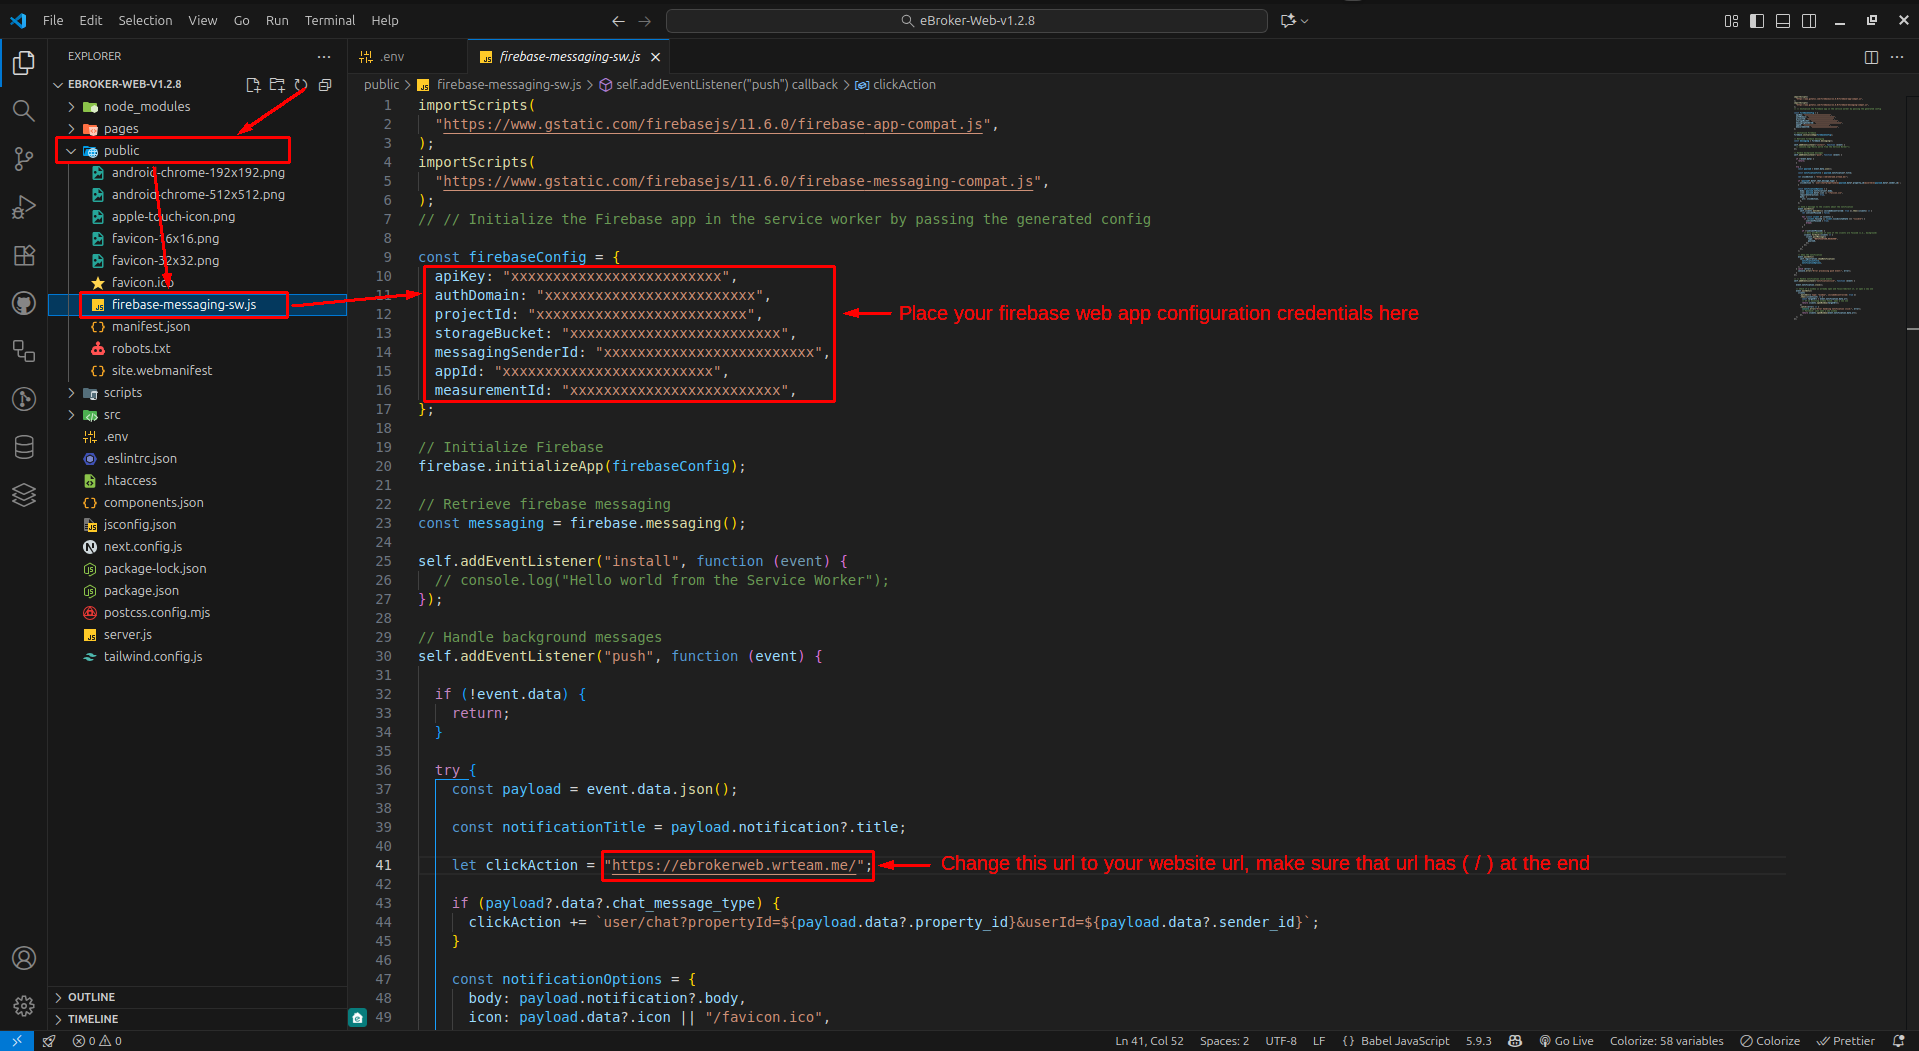
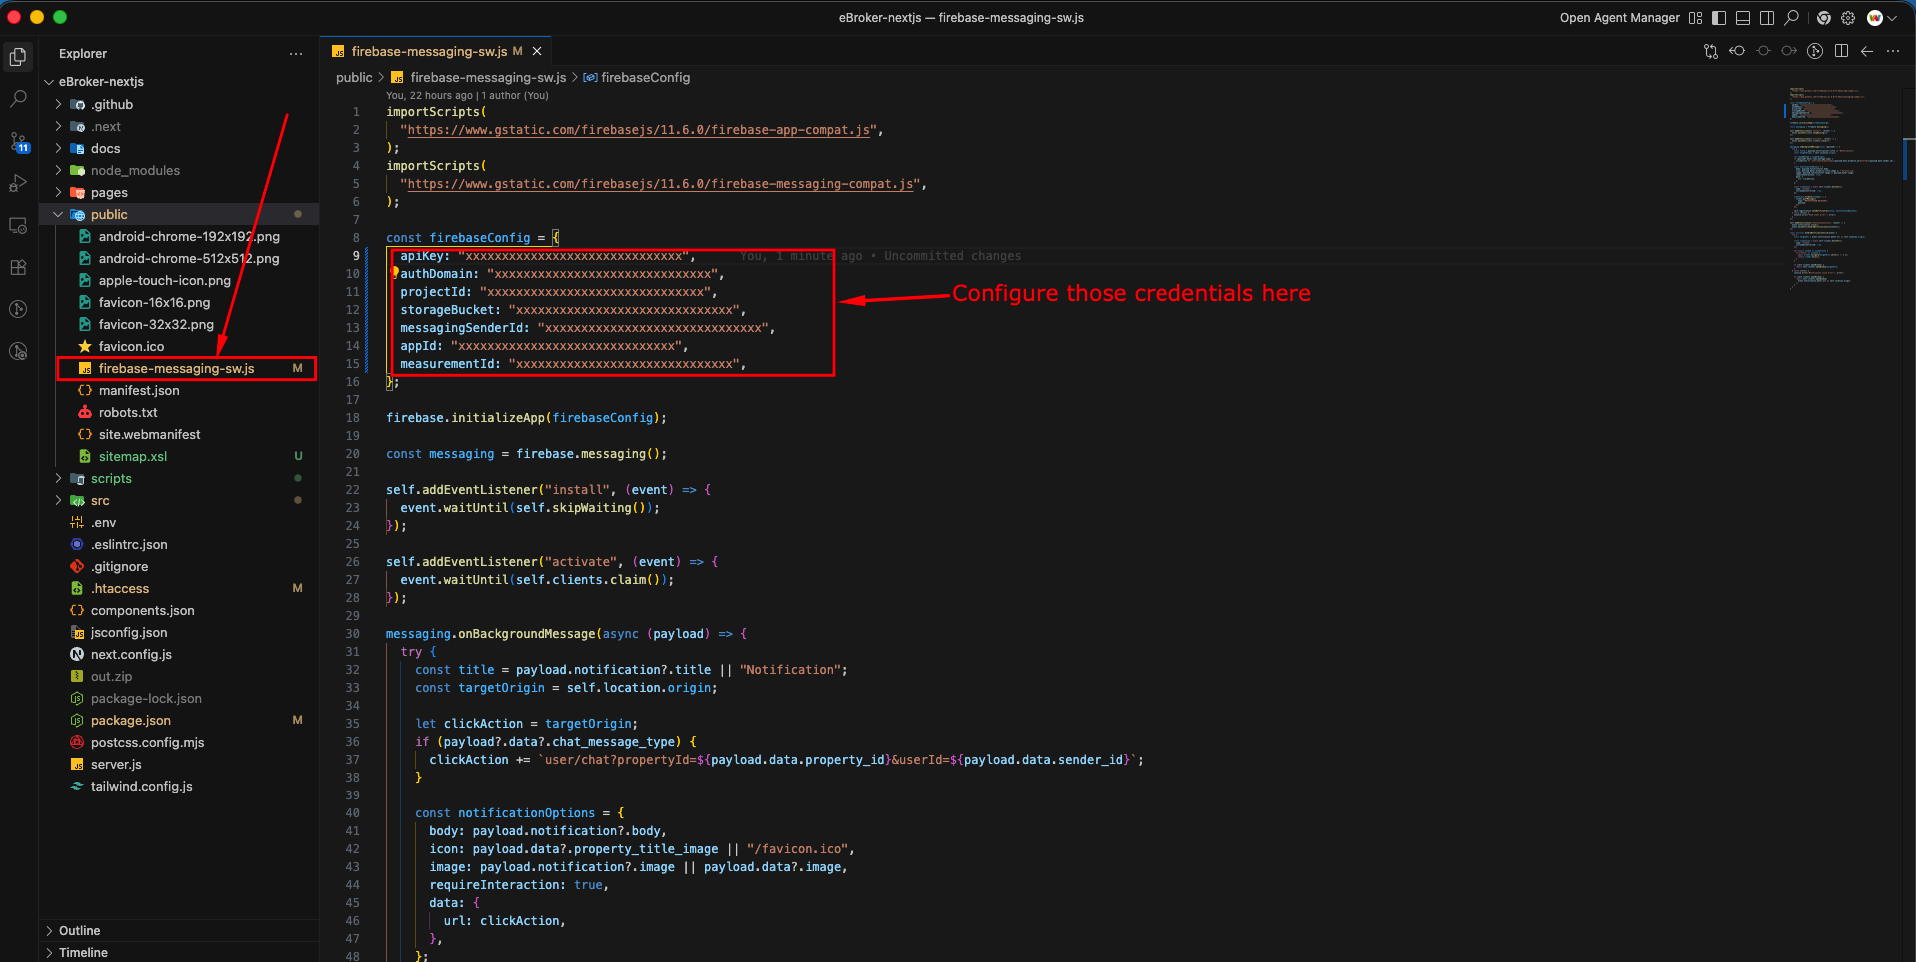
Done with v1.4.0 web docs changes

diff --git a/docs/web/set-favicon.md b/docs/web/set-favicon.md
@@ -15,23 +15,61 @@ The favicon is the small icon that appears in browser tabs, bookmarks, and other
 
 ![Change Favicon](/images/web/set-favicon.png)
 
-## Creating a Favicon
+## Generating Favicon Files
 
-If you need to create a favicon:
+Use **[favicon.io — Favicon Converter](https://favicon.io/favicon-converter/)** to generate all the necessary favicon files from a single image.
 
-1. Prepare a square image that represents your brand (ideally 16x16, 32x32, or 64x64 pixels)
-2. Convert it to `.ico` format using an online converter or image editing software
-3. Place the favicon file in your project's `public` folder
-4. Update the reference in `_document.js` as shown above
+### Steps to Generate
+
+1. Visit [https://favicon.io/favicon-converter/](https://favicon.io/favicon-converter/)
+2. Click **"Upload Image"** and select your logo or brand image (PNG recommended, ideally 512×512 px or larger)
+3. Click **"Download"** — a `.zip` file will be downloaded containing all favicon assets
+
+### Files Included in the Download
+
+The downloaded `.zip` will contain the following files:
+
+| File | Purpose |
+|------|---------|
+| `favicon.ico` | Classic ICO file for browser tabs |
+| `favicon-16x16.png` | 16×16 PNG favicon |
+| `favicon-32x32.png` | 32×32 PNG favicon |
+| `apple-touch-icon.png` | 180×180 icon for iOS home screen |
+| `android-chrome-192x192.png` | 192×192 icon for Android |
+| `android-chrome-512x512.png` | 512×512 icon for Android |
+| `site.webmanifest` | Web app manifest referencing the icons |
+
+### Placing Files in `public/`
+
+1. Extract the downloaded `.zip` file
+2. Copy **all** extracted files into your project's **`public/`** folder:
+
+```
+eBroker-Web-v1.4.0/
+└── public/
+    ├── favicon.ico
+    ├── favicon-16x16.png
+    ├── favicon-32x32.png
+    ├── apple-touch-icon.png
+    ├── android-chrome-192x192.png
+    ├── android-chrome-512x512.png
+    └── site.webmanifest
+```
+
+:::tip
+Files placed in the `public/` folder are served at the root path (`/`). So `public/favicon.ico` is accessible at `/favicon.ico`.
+:::
 
 ## Multiple Favicon Sizes
 
-For better compatibility across devices, you may want to include multiple favicon sizes:
+After placing the files, ensure the following tags are present in your `_document.js` to reference all the generated sizes:
 
 ```jsx
+<link rel="icon" type="image/x-icon" href="/favicon.ico" />
 <link rel="icon" type="image/png" sizes="16x16" href="/favicon-16x16.png" />
 <link rel="icon" type="image/png" sizes="32x32" href="/favicon-32x32.png" />
 <link rel="apple-touch-icon" sizes="180x180" href="/apple-touch-icon.png" />
+<link rel="manifest" href="/site.webmanifest" />
 ```
 
 ## Testing Your Favicon

diff --git a/docs/web/color-customization.md b/docs/web/color-customization.md
@@ -6,7 +6,9 @@ sidebar_position: 12
 
 Customizing the color scheme of your eBroker web application helps align it with your brand identity and creates a consistent user experience.
 
-## Setting System Colors
+## Setting System Colors via Admin Panel
+
+The quickest way to change colors is through the admin panel — no code changes required.
 
 1. Log in to your admin panel
 2. Navigate to **Settings → System Settings → More Settings → System Color**
@@ -14,6 +16,30 @@ Customizing the color scheme of your eBroker web application helps align it with
 4. Save your changes
 
 ![Change Color Code](/images/web/change-color-code.png)
+
+## Best Practice: Hardcoding Colors in Source Code
+
+For a more reliable and permanent color setup — especially in production deployments — it is recommended to **set your brand colors directly in the source code** inside `src/styles/globals.css`. This ensures that your colors are always applied consistently, regardless of admin panel settings or caching issues.
+
+### Where to Edit
+
+Open the file `src/styles/globals.css` in your project. Locate the `:root` block at the top of the file. This is where all global CSS color variables are defined.
+
+![Hex Color Code in globals.css](/images/web/hex-color-code-web.png)
+
+As shown in the screenshot above, update `--primary-color` (and any other relevant variables) with your desired hex color code.
+
+### Step-by-Step Instructions
+
+1. Open `src/styles/globals.css` in your code editor.
+2. Locate the `:root { ... }` block (lines 5–34, as shown in the screenshot).
+3. Find `--primary-color` and replace its value with your brand's primary hex code:
+   ```css
+   --primary-color: #YOUR_HEX_CODE;
+   ```
+4. Update any other color variables to match your brand palette.
+5. Save the file.
+6. Restart the development server (`npm run dev`) or rebuild the production bundle (`npm run build`) to see the changes take effect.
 
 ## Key Color Elements
 
@@ -29,8 +55,7 @@ The eBroker web application allows you to customize several color elements:
 When selecting colors for your web application:
 
 - Use colors that match your brand identity
-- Ensure sufficient contrast for readability
-- Limit your color palette to 2-3 main colors for a clean look
+- Limit your color palette to 2–3 main colors for a clean look
 - Consider color psychology (e.g., blue for trust, green for growth)
 - Test your color choices on different devices and screen sizes
 
@@ -38,10 +63,5 @@ When selecting colors for your web application:
 
 After setting your custom colors:
 
-1. Save your changes in the admin panel
-2. The changes will be reflected in your web application automatically
-3. You may need to clear your browser cache to see the updated colors
-
-## Advanced Customization
-
-For more advanced color customization beyond what's available in the admin panel, you may need to modify your CSS files. However, this requires development knowledge and should be done carefully to avoid breaking the layout or functionality.
+1. **Via Admin Panel**: Save your changes — the web application will update automatically. You may need to clear your browser cache to see the updated colors.
+2. **Via Source Code (`globals.css`)**: Save the file and restart or rebuild the application. Changes are applied globally and take effect immediately on the next page load.

diff --git a/docs/web/running-project.md b/docs/web/running-project.md
@@ -22,7 +22,7 @@ First, you need to install all the required dependencies:
 2. Run the following command:
 
 ```bash
-npm i
+npm install
 ```
 
 This will take some time to download all necessary packages. Wait until the installation completes.
@@ -40,6 +40,28 @@ npm run dev
 2. This command will start the development mode of your application
 3. Wait for the compilation to complete
 4. The terminal will show the local URL where your application is running (typically `http://localhost:3000`)
+
+## Building for Production
+
+The build command depends on the value of the `NEXT_PUBLIC_SEO` environment variable in your `.env` file:
+
+### If `NEXT_PUBLIC_SEO="true"` (SEO Enabled)
+
+When SEO is enabled, the project uses **Server-Side Rendering (SSR)**, so you need to run a standard Next.js build:
+
+```bash
+npm run build
+```
+
+### If `NEXT_PUBLIC_SEO="false"` (SEO Disabled)
+
+When SEO is disabled, the project is exported as a **static site**, so run:
+
+```bash
+npm run export
+```
+
+> **Note:** Make sure the `NEXT_PUBLIC_SEO` value in your `.env` file matches the command you intend to run. Using the wrong command for your configuration may result in build errors or an incorrect deployment.
 
 ## Testing Your Application
 

diff --git a/docs/web/nextjs-deployment.md b/docs/web/nextjs-deployment.md
@@ -25,7 +25,7 @@ Node.js can be installed using NVM (Node Version Manager) to easily manage multi
 sudo apt install curl
 curl https://raw.githubusercontent.com/creationix/nvm/master/install.sh | bash
 source ~/.bashrc  # or restart your terminal
-nvm install node 20.*
+nvm install 22
 ```
 
 Verify the installation with:
@@ -123,6 +123,24 @@ pm2 delete "YOUR_PROJECT_NAME"
 ```
 
 For more information, refer to the [official PM2 documentation](https://pm2.keymetrics.io/docs/usage/quick-start/).
+
+## Auto-Start on Server Reboot
+
+To ensure your application automatically restarts when the hosting server reboots, you need to save the current PM2 process list and configure PM2 to launch on system startup.
+
+**Step 1 — Save the current PM2 process list:**
+
+```bash
+pm2 save
+```
+
+This saves all currently running processes so PM2 can restore them after a reboot.
+
+**Step 2 — Generate and configure the startup script:**
+
+```bash
+pm2 startup
+```
 
 ## Testing Your Deployment
 

diff --git a/docs/web/htaccess-config.md b/docs/web/htaccess-config.md
@@ -11,19 +11,18 @@ This guide explains how to configure your Apache web server for both static and 
 ### Option 1: Static File Hosting (Default Configuration)
 
 ```apache
-# ============================================================
-# OPTION 1: STATIC FILE HOSTING (DEFAULT CONFIGURATION)
-# ============================================================
 <IfModule mod_rewrite.c>
     RewriteEngine On
     RewriteBase /
     RewriteRule ^property-details/([^/]+)/?$ property-details/[slug]/index.html [L]
     RewriteRule ^project-details/([^/]+)/?$ project-details/[slug]/index.html [L]
-    RewriteRule ^verified-user-details/([^/]+)/?$ verified-user-details/[slug]/index.html [L]
+    RewriteRule ^agent-details/([^/]+)/?$ agent-details/[slug]/index.html [L]
     RewriteRule ^article-details/([^/]+)/?$ article-details/[slug]/index.html [L]
     RewriteRule ^compare-properties/([^/]+)/?$ compare-properties/[slug]/index.html [L]
     RewriteRule ^my-property/([^/]+)/?$ my-property/[slug]/index.html [L]
     RewriteRule ^my-project/([^/]+)/?$ my-project/[slug]/index.html [L]
+    RewriteRule ^agent/my-property/(.+)/?$ agent/my-property/[slug]/index.html [L]
+    RewriteRule ^agent/my-project/(.+)/?$ agent/my-project/[slug]/index.html [L]
     RewriteRule ^payment/([^/]+)/?$ payment/[slug]/index.html [L]
     RewriteRule ^all/([^/]+)/?$ all/[slug]/index.html [L]
     RewriteRule ^more-pages/([^/]+)/?$ more-pages/[...slug]/index.html [L]
@@ -36,9 +35,10 @@ This guide explains how to configure your Apache web server for both static and 
     RewriteRule ^projects/(featured-projects|most-viewed-projects|most-favourite-projects|projects-nearby-city)/?$ projects/[slug]/index.html [L]
     RewriteRule ^projects/?$ projects/index.html [L]
 
+    RewriteRule ^agent/(.+)/?$ agent/[...slug]/index.html [L]
     RewriteRule ^user/(.+)/?$ user/[...slug]/index.html [L]
 
-    RewriteRule ^(about-us|contact-us|faqs|privacy-policy|terms-and-conditions|subscription-plan|search|all-personalized-feeds|properties-on-map)/?$ $1/index.html [L]
+    RewriteRule ^(about-us|contact-us|faqs|privacy-policy|terms-and-conditions|subscription-plan|search|all-personalized-feeds|properties-on-map|become-agent|become-agent-form)/?$ $1/index.html [L]
 
     RewriteCond %{REQUEST_FILENAME} !-f
     RewriteCond %{REQUEST_FILENAME} !-d
@@ -54,9 +54,6 @@ This guide explains how to configure your Apache web server for both static and 
 ### Option 2: Reverse Proxy with SEO Optimization
 
 ```apache
-# ============================================================
-# OPTION 2: REVERSE PROXY WITH SEO OPTIMIZATION
-# ============================================================
 <IfModule mod_rewrite.c>
     RewriteEngine On
     RewriteBase /

diff --git a/docs/web/deployment-without-seo.md b/docs/web/deployment-without-seo.md
@@ -49,11 +49,13 @@ After uploading the contents of the `out` folder, you also need to add a `.htacc
         RewriteBase /
         RewriteRule ^property-details/([^/]+)/?$ property-details/[slug]/index.html [L]
         RewriteRule ^project-details/([^/]+)/?$ project-details/[slug]/index.html [L]
-        RewriteRule ^verified-user-details/([^/]+)/?$ verified-user-details/[slug]/index.html [L]
+        RewriteRule ^agent-details/([^/]+)/?$ agent-details/[slug]/index.html [L]
         RewriteRule ^article-details/([^/]+)/?$ article-details/[slug]/index.html [L]
         RewriteRule ^compare-properties/([^/]+)/?$ compare-properties/[slug]/index.html [L]
         RewriteRule ^my-property/([^/]+)/?$ my-property/[slug]/index.html [L]
         RewriteRule ^my-project/([^/]+)/?$ my-project/[slug]/index.html [L]
+        RewriteRule ^agent/my-property/(.+)/?$ agent/my-property/[slug]/index.html [L]
+        RewriteRule ^agent/my-project/(.+)/?$ agent/my-project/[slug]/index.html [L]
         RewriteRule ^payment/([^/]+)/?$ payment/[slug]/index.html [L]
         RewriteRule ^all/([^/]+)/?$ all/[slug]/index.html [L]
         RewriteRule ^more-pages/([^/]+)/?$ more-pages/[...slug]/index.html [L]
@@ -66,9 +68,10 @@ After uploading the contents of the `out` folder, you also need to add a `.htacc
         RewriteRule ^projects/(featured-projects|most-viewed-projects|most-favourite-projects|projects-nearby-city)/?$ projects/[slug]/index.html [L]
         RewriteRule ^projects/?$ projects/index.html [L]
 
+        RewriteRule ^agent/(.+)/?$ agent/[...slug]/index.html [L]
         RewriteRule ^user/(.+)/?$ user/[...slug]/index.html [L]
 
-        RewriteRule ^(about-us|contact-us|faqs|privacy-policy|terms-and-conditions|subscription-plan|search|all-personalized-feeds|properties-on-map)/?$ $1/index.html [L]
+        RewriteRule ^(about-us|contact-us|faqs|privacy-policy|terms-and-conditions|subscription-plan|search|all-personalized-feeds|properties-on-map|become-agent|become-agent-form)/?$ $1/index.html [L]
 
         RewriteCond %{REQUEST_FILENAME} !-f
         RewriteCond %{REQUEST_FILENAME} !-d